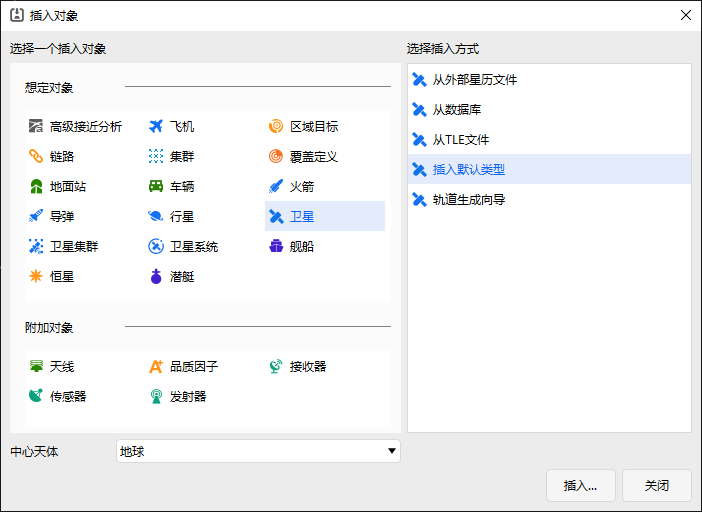
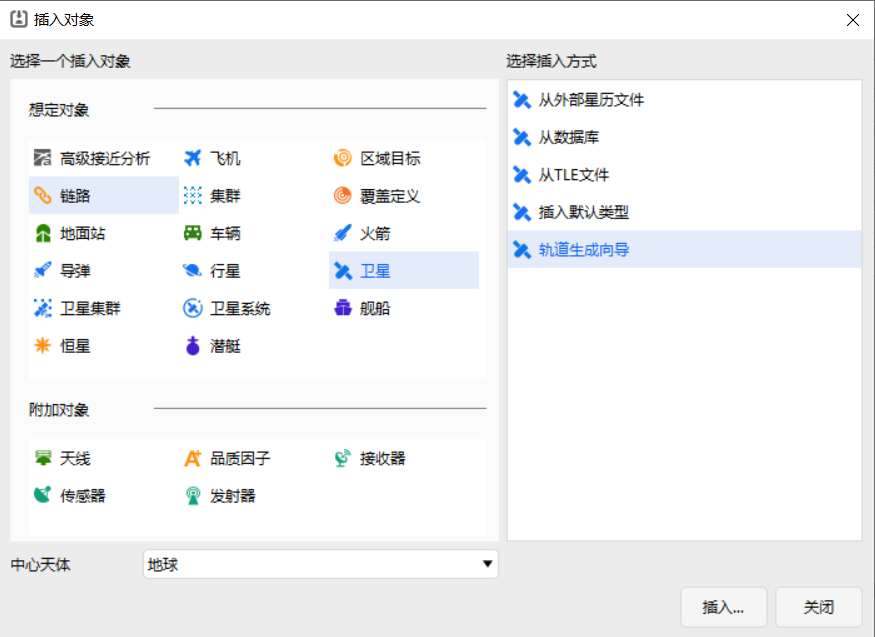
邹新强5.7【】符号修改、5.8全局修改（图片修改两张）

diff --git a/5.专业使用指南/8-初轨生成模块.md b/5.专业使用指南/8-初轨生成模块.md
@@ -9,25 +9,27 @@
 
 
 | 序号 | 轨道类型               | 说明                                                         |
-|:---: | ---------------------- | ------------------------------------------------------------ |
-| 1    | 圆轨道                 | 圆形轨道的半径保持恒定。                                     |
-| 2    | 临界倾角轨道           | 临界倾角轨道的近地点始终处于固定纬度。其拱线不会随时间发生变化。 |
-| 3    | 临界倾角、太阳同步轨道 | 该轨道融合了基础临界倾角轨道与太阳同步轨道的特性。轨道采用 116.565 度的逆行倾角，卫星每绕轨一周，都会在同一地方平太阳时经过目标上空，且近地点始终处于固定纬度。 |
-| 4    | 地球静止轨道           | 处于地球同步轨道的卫星，会在指定的固定经度上空保持相对静止。     |
-| 5    | 闪电轨道               | 闪电轨道的偏心率极高，这意味着其远地点高度与近地点高度差异显著。该轨道同时属于临界倾角轨道，能将轨道近地点固定在南半球。此外，闪电轨道在北半球高纬度地区的驻留时间较长。 |
-| 6    | 回归轨道               | 卫星的星下点轨迹在经过一个特定的整数周期后，能够重复覆盖之前相同路径的轨道。 |
-| 7    | 太阳同步回归轨道       | 太阳同步回归轨道在以下场景中十分实用：当需要在不同时间通过相同的观测与光照条件来检测变化时。其星下点轨迹可设置为每日重复，也可设置为在多日交错后再实现重复。该轨道会重复地面覆盖周期，且卫星每绕轨一周，都会在大致相同的地方平太阳时经过目标上空。 |
-| 8    | 太阳同步轨道           | 这类轨道的设计旨在利用地球扁率效应，使轨道平面的进动速率与地球绕太阳的平均公转速率保持一致。太阳同步轨道具有一个关键特性：其轨道交点始终保持固定的地方平太阳时。 |
-| 9    | 自定义轨道             | 使用传统的轨道根数，用户可以创建任何一个想要的轨道。           |
+|:---: | :----------------------: | ------------------------------------------------------------ |
+| 1    | 圆轨道                 | 轨道半径始终保持恒定。                                     |
+| 2    | 临界倾角轨道           | 临界倾角轨道使近地点保持在一个固定的纬度。拱线不随时间变化。在固定轨道上的卫星将在指定的固定经度上的天空中保持一个固定纬度。 |
+| 3    | 临界倾角，太阳同步轨道 | 临界倾斜太阳同步轨道结合这两种类型轨道的特点。该轨道使用的逆行倾角为116.565度。卫星每转一圈都会以相同的当地平均太阳时从上空经过，其近地点保持在一个固定的纬度。 |
+| 4    | 地球静止轨道           | 地球静止轨道上的卫星将在指定固定经度的上空中保持固定。     |
+| 5    | 闪电轨道               | 闪电轨道为大偏心率轨道，远地点与近地点高度差异显著；同时该轨道为临界倾角轨道，可使近地点保持在南半球，且卫星在北半球高纬度区域具有较长的驻留时间。 |
+| 6    | 回归轨道               | 当不同时间需要相同的观测条件以检测变化时，具有重复地面轨迹的轨道是有用的。地面痕迹可以每天重复，或者在重复之前日复一日的交织。 |
+| 7    | 太阳同步回归轨道       | 太阳同步回归轨道适用于需要在不同时段获得一致观测与光照条件以监测变化的场景，地面轨迹可逐日重复或在重复前逐日交错，轨道可完成地面覆盖周期的重复，且卫星每绕轨一圈，均会在大致相同的当地平太阳时经过地面同一点。 |
+| 8    | 太阳同步轨道           |这些轨道的设计利用了地球扁率的影响，使轨道平面以等于地球绕太阳的平均轨道速率进动。太阳同步轨道具有其节点保持恒定的局部平均太阳时间的性质。|
+| 9    | 自定义轨道             | 用于用户创建自定义的轨道。           |
 | 10   | 星下点定义轨道         | 根据星下点轨迹定义轨道参数。                                   |
 | 11   | 星下点定义回归轨道     | 根据星下点轨迹定义回归轨道参数。                               |
 
 ### 功能位置
 
 
-本功能有两个入口位置，一个在`插入对象`窗口的`卫星-轨道生成向导`，如图所示。另一个入口在`卫星-属性`-`轨道生成向导`功能，如图所示。
+本功能有两个入口位置，一个在“插入对象”窗口的“卫星-轨道生成向导”，如图所示。
 
 ![插入对象窗口](media/5.8初轨生成模块/image-0311insertsat_zy.png)
+
+另一个入口在“卫星-属性-轨道生成向导”，如图所示。
 
 ![卫星属性窗口调用“轨道生成向导”](media/5.8初轨生成模块/image-1_zy.png)
 
@@ -40,13 +42,13 @@
 
 ## 使用方法
 
-创建场景后，在“开始”页面点击“插入”，出现“插入对象”窗口，选择“卫星”，在右侧“选择插入方式”中选择“轨道生成向导”，点击“插入”。或者从卫星属性窗口调用“轨道生成向导”功能，出现“轨道生成向导”窗口，如图所示。选择“轨道类型”列表中的轨道，进行初轨生成。所有轨道历元均采用场景默认设置。
+创建场景后，在【开始】页面点击【插入】，出现“插入对象”窗口，选择【卫星】，在右侧“选择插入方式”中选择【轨道生成向导】，点击【插入】。或者从卫星属性窗口调用“轨道生成向导”功能，出现“轨道生成向导”窗口，如图所示。选择“轨道类型”列表中的轨道，进行初轨生成。所有轨道历元均采用场景默认设置。
 
 ![轨道生成向导窗口](media/5.8初轨生成模块/image-3_zy.png)
 
 ### 圆轨道
 
-圆轨道需要设置轨道倾角、高度、升交点赤经 3 个参数，点击“确定”在场景中生成卫星，如图所示。
+圆轨道需要设置轨道倾角、高度、升交点赤经 3 个参数，点击【确定】在场景中生成卫星，如图所示。
 
 ![圆轨道卫星设置](media/5.8初轨生成模块/image-4_zy.png)
 
@@ -56,7 +58,7 @@
 
 ### 临界倾角轨道
 
-临界倾角轨道需要设置方向、远地点高度、近地点高度、升交点地理经度 4 个参数，点击“确定”在场景中生成卫星，如图所示。
+临界倾角轨道需要设置方向（顺行/逆行）、远地点高度、近地点高度、升交点地理经度 4 个参数，点击【确定】在场景中生成卫星，如图所示。
 
 
 ![临界倾角轨道卫星设置](media/5.8初轨生成模块/image-7_zy.png)
@@ -67,21 +69,21 @@
 
 ![临界倾角轨道卫星二维展示](media/5.8初轨生成模块/image-9_zy.png)
 
-### 临界倾角、太阳同步轨道
+### 临界倾角，太阳同步轨道
 
-临界倾角太阳同步轨道需要设置近地点高度、升交点地理经度 2 个参数，点击“确定”在场景中生成卫星，如图所示。
+临界倾角太阳同步轨道需要设置近地点高度、升交点地理经度 2 个参数，点击【确定】在场景中生成卫星，如图所示。
 
-![临界倾角太阳同步轨道卫星设置](media/5.8初轨生成模块/image-10_zy.png)
+![临界倾角，太阳同步轨道卫星设置](media/5.8初轨生成模块/image-10_zy.png)
 
-![临界倾角太阳同步轨道卫星三维展示](media/5.8初轨生成模块/image-11_zy.png)
+![临界倾角，太阳同步轨道卫星三维展示](media/5.8初轨生成模块/image-11_zy.png)
 
 
-![ 临界倾角太阳同步轨道卫星二维展示](media/5.8初轨生成模块/image-12_zy.png)
+![临界倾角，太阳同步轨道卫星二维展示](media/5.8初轨生成模块/image-12_zy.png)
 
 
 ### 地球静止轨道
 
-地球静止轨道需要设置星下点经度、轨道倾角 2 个参数，点击“确定”在场景中生成卫星，如图所示。
+地球静止轨道需要设置星下点经度、轨道倾角 2 个参数，点击【确定】在场景中生成卫星，如图所示。
 
 ![地球静止轨道卫星设置](media/5.8初轨生成模块/image-13_zy.png)
 
@@ -92,18 +94,18 @@
 
 ### 闪电轨道
 
-闪电轨道需要设置远地点经度、近地点高度、近拱点角距 3 个参数，点击“确定”在场景中生成卫星，如图所示。
+闪电轨道需要设置远地点经度、近地点高度、近拱点角距 3 个参数，点击【确定】在场景中生成卫星，如图所示。
 
 ![闪电轨道卫星设置](media/5.8初轨生成模块/image-16_zy.png)
 
-![闪电轨道三维展示](media/5.8初轨生成模块/image-17_zy.png)
+![闪电轨道卫星三维展示](media/5.8初轨生成模块/image-17_zy.png)
 
-![闪电轨道二维展示](media/5.8初轨生成模块/image-18_zy.png)
+![闪电轨道卫星二维展示](media/5.8初轨生成模块/image-18_zy.png)
 
 
 ### 回归轨道
 
-回归轨道需要设置位置（大致高度/每天大致圈数）、轨道倾角、回归圈数、首个升交点经度 4 个参数，点击“确定”在场景中生成卫星，如图所示。
+回归轨道需要设置位置（大致高度/每天大致圈数）、轨道倾角、回归圈数、首个升交点经度 4 个参数，点击【确定】在场景中生成卫星，如图所示。
 
 ![回归轨道卫星设置](media/5.8初轨生成模块/image-19_zy.png)
 
@@ -115,7 +117,7 @@
 ### 太阳同步回归轨道
 
 
-太阳同步回归轨道需要设置位置（大致高度/每天大致圈数）、回归圈数、首个升交点经度、升交点地方时或降交点地方时 4 个参数，点击“确定”在场景中生成卫星，如图所示。
+太阳同步回归轨道需要设置位置（大致高度/每天大致圈数）、回归圈数、首个升交点经度、升交点地方时或降交点地方时 4 个参数，点击【确定】在场景中生成卫星，如图所示。
 
 ![太阳同步回归轨道卫星设置](media/5.8初轨生成模块/image-22_zy.png)
 
@@ -126,29 +128,29 @@
 
 ### 太阳同步轨道
 
-太阳同步轨道需要设置轨道倾角/高度、升/降交点地方时 2 个参数，点击“确定”在场景中生成卫星，如图所示。
+太阳同步轨道需要设置位置（轨道倾角/高度）、升交点地方时或降交点地方时 2 个参数，点击【确定】在场景中生成卫星，如图所示。
 
 ![太阳同步轨道卫星设置](media/5.8初轨生成模块/image-25_zy.png)
 
 
-![太阳同步轨道三维展示](media/5.8初轨生成模块/image-26_zy.png)
+![太阳同步轨道卫星三维展示](media/5.8初轨生成模块/image-26_zy.png)
 
 
-![太阳同步轨道二维展示](media/5.8初轨生成模块/image-27_zy.png)
+![太阳同步轨道卫星二维展示](media/5.8初轨生成模块/image-27_zy.png)
 
 ### 自定义轨道
 
-自定义轨道需要设置轨道六根数，包括半长轴、偏心率、轨道倾角、近拱点角距、升交点赤经和真近点角，点击“确定”在场景中生成卫星，如图所示。
+自定义轨道需要设置轨道六根数，包括半长轴、偏心率、轨道倾角、近拱点角距、升交点赤经和真近点角 6 个参数，点击【确定】在场景中生成卫星，如图所示。
 
 ![自定义轨道卫星设置](media/5.8初轨生成模块/image-28_zy.png)
 
-![自定义轨道三维展示](media/5.8初轨生成模块/image-29_zy.png)
+![自定义轨道卫星三维展示](media/5.8初轨生成模块/image-29_zy.png)
 
-![自定义轨道二维展示](media/5.8初轨生成模块/image-30_zy.png)
+![自定义轨道卫星二维展示](media/5.8初轨生成模块/image-30_zy.png)
 
 ### 星下点定义轨道
 
-星下点定义轨道需要设置纬度、经度、升轨或降轨、轨道高度、轨道倾角 5个参数，点击“确定”在场景中生成卫星，如图所示。
+星下点定义轨道需要设置纬度、经度、是否“响应地图”、方向（升轨/降轨）、轨道高度、轨道倾角 6 个参数，点击【确定】在场景中生成卫星，如图所示。
 
 ![星下点定义轨道卫星设置](media/5.8初轨生成模块/image-31_zy.png)
 
@@ -159,7 +161,7 @@
 ### 星下点定义回归轨道
 
 
-星下点定义回归轨道需要设置大致高度或每天大致圈数、纬度、经度、升轨或降轨、轨道倾角、回归圈数 6 个参数，点击“确定”在场景中生成卫星，如图所示。
+星下点定义回归轨道需要设置位置（大致高度/每天大致圈数）、纬度、经度、是否“响应地图”、方向（升轨/降轨）、轨道倾角、回归圈数 7 个参数，点击【确定】在场景中生成卫星，如图所示。
 
 ![星下点定义回归轨道卫星设置](media/5.8初轨生成模块/image-34_zy.png)
 

diff --git a/5.专业使用指南/7-星座设计工具.md b/5.专业使用指南/7-星座设计工具.md
@@ -21,14 +21,14 @@
 
 ### 创建场景
 
-首先在“开始”中点击“新建![新建](media/5.7星座设计工具/image-2.png)”，创建场景，如图所示。
+首先在【开始】中点击【新建![新建](media/5.7星座设计工具/image-2.png)】，创建场景，如图所示。
 
 ![创建场景](media/5.7星座设计工具/image-3_zy.png)
 
 
 ### 在场景中添加卫星
 
-在场景中添加一颗卫星作为“种子”卫星，点击“插入 ”，选择“卫星”，选择“插入默认类型”，点击右下方“插入…”，如图所示。
+在场景中添加一颗卫星作为“种子”卫星，点击【插入】，选择【卫星】，选择【插入默认类型】，点击右下方【插入…】，如图所示。
 
 ![插入卫星](media/5.7星座设计工具/image-0311insertsat_zy.png)
 
@@ -39,11 +39,11 @@
 
 ### 设置星座参数
 
-在顶部工具栏“工具”中选择“星座设计”，如图所示。
+在顶部工具栏【工具】中选择【星座设计】，如图所示。
 
 ![星座设计窗口](media/5.7星座设计工具/image-6_zy.png)
 
-勾选左上方“种子卫星”，可以在“选择对象”后选择上步插入的“种子卫星”，点击“确定”后，刚刚创建的卫星1参数展示在窗口左侧区域，如图所示。
+勾选左上方“种子卫星”，点击【选择对象...】后选择上步插入的“种子卫星”，点击【确定】后，刚刚创建的卫星1参数展示在窗口左侧区域，如图所示。
 
 ![星座设计窗口](media/5.7星座设计工具/image-7_zy.png)
 
